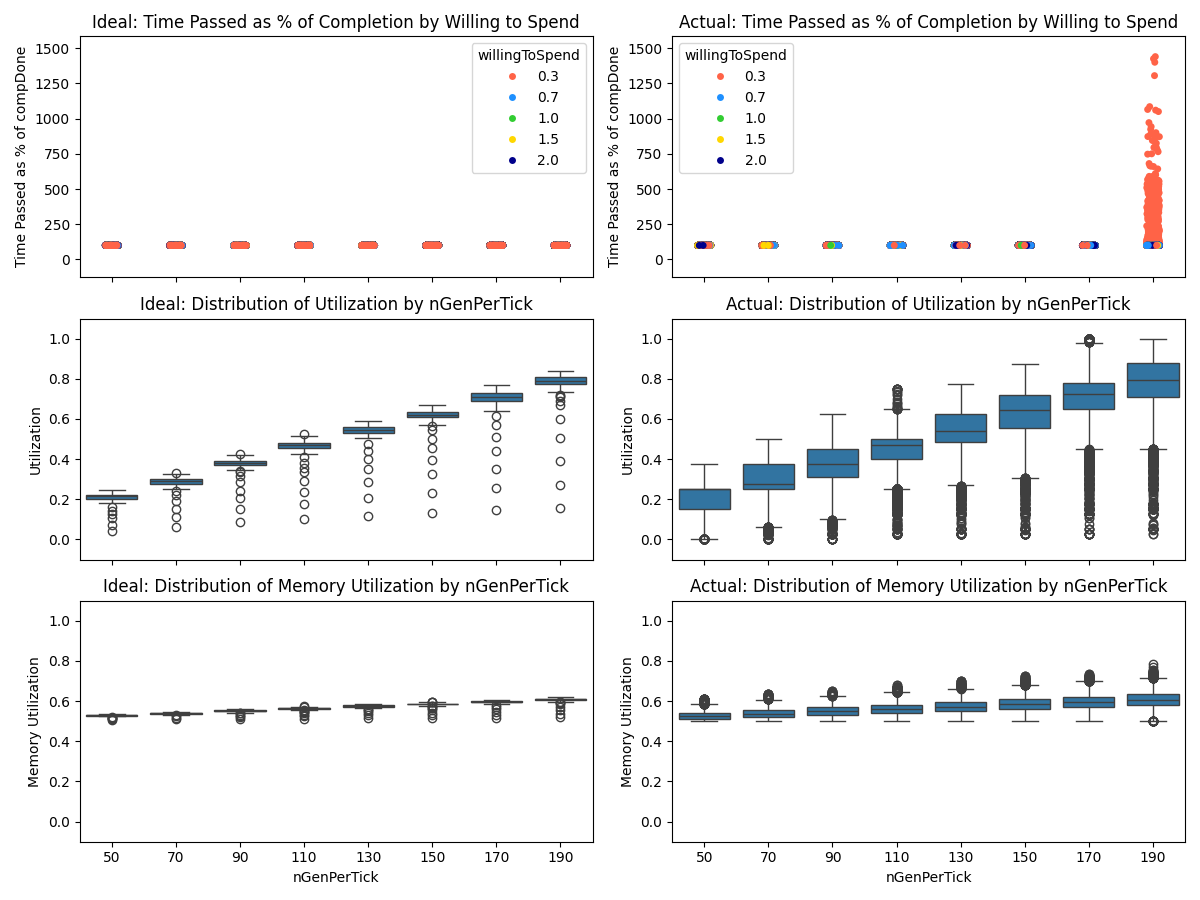
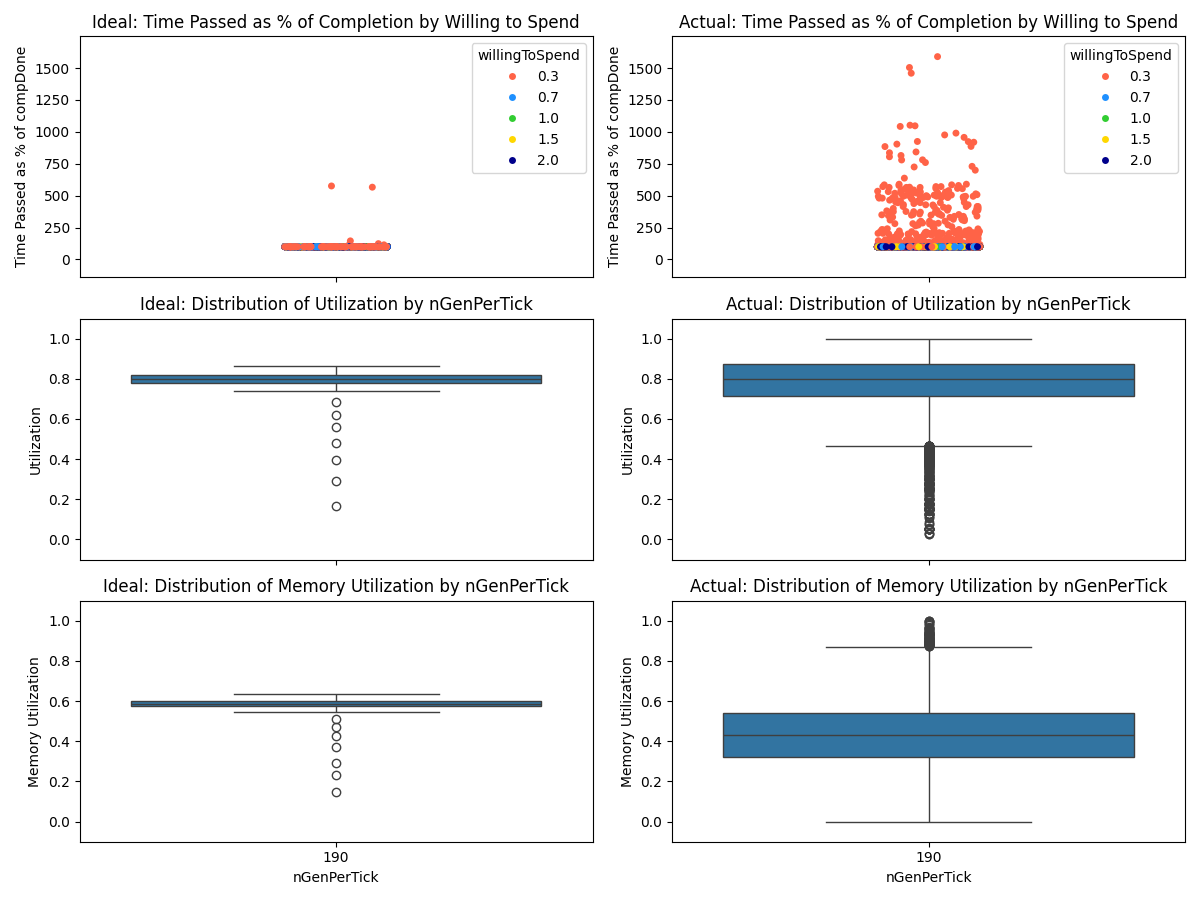
some bug fixes: mem free accounting at beginning not at end, update free list when other gs places using k choices, have ideal and actual run exactly the same procs

diff --git a/idealized.go b/idealized.go
@@ -50,8 +50,6 @@ func (idc *IdealDC) potPlaceProc(newProc *Proc) bool {
 
 	// if it doesn't fit, look if there a good proc to kill? (/a combination of procs? can add that later)
 	procToKill, minMoneyWaste := idc.procQ.checkKill(newProc)
-	toWrite := fmt.Sprintf("  min money waste: %v \n", minMoneyWaste)
-	logWrite(IDEAL_SCHED, toWrite)
 	if minMoneyWaste < MONEY_WASTE_THRESHOLD {
 
 		newProc.timePlaced = *idc.currTickPtr
@@ -67,8 +65,8 @@ func (idc *IdealDC) potPlaceProc(newProc *Proc) bool {
 // ok so I have a bunch of procs that all fit memory wise, so really what I'm doing
 func (idc *IdealDC) tick() {
 
-	// toWrite := fmt.Sprintf("%v @ %v: WHOLE QUEUE %v\n", idc.worldNumProcsGenPerTick, idc.currTickPtr, idc.procQ.String())
-	// logWrite(IDEAL_SCHED, toWrite)
+	toWrite := fmt.Sprintf("%v @ %v; mem free: %v: WHOLE QUEUE %v\n", idc.worldNumProcsGenPerTick, idc.currTickPtr, idc.memFree(), idc.procQ.String())
+	logWrite(IDEAL_SCHED, toWrite)
 
 	totalTicksLeftToGive := Tftick(idc.amtWorkPerTick)
 	ticksLeftPerCore := make(map[int]Tftick, 0)
@@ -80,7 +78,8 @@ func (idc *IdealDC) tick() {
 		coresWithTicksLeft[i] = true
 	}
 
-	toWrite := fmt.Sprintf("%v, %v", idc.worldNumProcsGenPerTick, int(*idc.currTickPtr))
+	ogMemFree := idc.memFree()
+	toWrite = fmt.Sprintf("%v, %v", idc.worldNumProcsGenPerTick, int(*idc.currTickPtr))
 	logWrite(IDEAL_USAGE, toWrite)
 
 	// TODO: what if it doesn't fit?
@@ -134,8 +133,8 @@ func (idc *IdealDC) tick() {
 				continue
 			}
 
-			// toWrite := fmt.Sprintf("   core %v giving %v to proc %v \n", currCore, ticksLeftPerCore[currCore], procToRun.String())
-			// logWrite(IDEAL_SCHED, toWrite)
+			toWrite := fmt.Sprintf("   core %v giving %v to proc %v \n", currCore, ticksLeftPerCore[currCore], procToRun.String())
+			logWrite(IDEAL_SCHED, toWrite)
 
 			ticksUsed, done := procToRun.runTillOutOrDone(ticksLeftPerCore[currCore])
 
@@ -152,8 +151,13 @@ func (idc *IdealDC) tick() {
 				// if the proc is done, update the ticksPassed to be exact for metrics etc
 				procToRun.timeDone = *idc.currTickPtr + (1 - ticksLeftPerCore[currCore])
 
-				// toWrite := fmt.Sprintf("   -> done: %v\n", procToRun.String())
-				// logWrite(IDEAL_SCHED, toWrite)
+				toWrite := fmt.Sprintf("   -> done: %v\n", procToRun.String())
+				logWrite(IDEAL_SCHED, toWrite)
+
+				if (procToRun.timeDone - procToRun.timeStarted) > procToRun.compDone {
+					toWrite := fmt.Sprintf("   ---> OVER %v \n", procToRun.String())
+					logWrite(IDEAL_SCHED, toWrite)
+				}
 
 				toWrite = fmt.Sprintf("%v, %v, %v, %v \n", idc.worldNumProcsGenPerTick, procToRun.willingToSpend(), (procToRun.timeDone - procToRun.timeStarted).String(), procToRun.compDone.String())
 				logWrite(IDEAL_PROCS_DONE, toWrite)
@@ -170,6 +174,6 @@ func (idc *IdealDC) tick() {
 	if totalTicksLeftToGive < 0.00002 {
 		totalTicksLeftToGive = 0
 	}
-	toWrite = fmt.Sprintf(", %v, %v\n", float64(math.Copysign(float64(totalTicksLeftToGive), 1)), idc.memFree())
+	toWrite = fmt.Sprintf(", %v, %v\n", float64(math.Copysign(float64(totalTicksLeftToGive), 1)), ogMemFree)
 	logWrite(IDEAL_USAGE, toWrite)
 }

diff --git a/world.go b/world.go
@@ -6,7 +6,7 @@ import (
 )
 
 const (
-	MEM_PER_MACHINE = 128000
+	MEM_PER_MACHINE = 64000
 
 	IDLE_HEAP_MEM_THRESHOLD  = 1
 	IDLE_HEAP_QLEN_THRESHOLD = 2
@@ -28,6 +28,8 @@ type World struct {
 	numProcsToGen int
 	currProcNum   int
 	machines      map[Tid]*Machine
+	idealDC       *IdealDC
+	idealMultiQ   MultiQueue
 	GSSs          []*GlobalSched
 	roundRobinInd int
 	loadGen       LoadGen
@@ -39,10 +41,13 @@ func newWorld(numMachines int, numCores int, nGenPerTick int, nGSSs int) *World 
 		currTick:      Tftick(0),
 		machines:      map[Tid]*Machine{},
 		numProcsToGen: nGenPerTick,
+		idealMultiQ:   NewMultiQ(),
 		roundRobinInd: 0,
 	}
 
 	w.loadGen = newLoadGen()
+
+	w.idealDC = newIdealDC(numMachines*numCores, Tmem(numMachines*MEM_PER_MACHINE), &w.currTick, nGenPerTick)
 
 	w.GSSs = make([]*GlobalSched, nGSSs)
 	idleHeaps := make(map[Tid]*IdleHeap, nGSSs)
@@ -83,13 +88,39 @@ func (w *World) genLoad(nProcs int) int {
 			w.roundRobinInd = 0
 		}
 
+		copyForIdeal := newProvProc(Tid(w.currProcNum), w.currTick, up)
+		w.idealMultiQ.enq(copyForIdeal)
 		w.currProcNum += 1
 	}
 	return len(userProcs)
 }
 
+// this needs to model placement ordering like GS does...
+func (w *World) placeProcsIdeal() {
+
+	toReq := make([]*Proc, 0)
+
+	p := w.idealMultiQ.deq(w.currTick)
+
+	for p != nil {
+		placed := w.idealDC.potPlaceProc(p)
+
+		if !placed {
+			toReq = append(toReq, p)
+		}
+		p = w.idealMultiQ.deq(w.currTick)
+	}
+
+	for _, p := range toReq {
+		w.idealMultiQ.enq(p)
+	}
+
+}
+
 func (w *World) Tick(numProcs int) {
 	w.genLoad(numProcs)
+
+	w.placeProcsIdeal()
 
 	for _, gs := range w.GSSs {
 		gs.placeProcs()
@@ -100,6 +131,7 @@ func (w *World) Tick(numProcs int) {
 	for _, m := range w.machines {
 		m.sched.tick()
 	}
+	w.idealDC.tick()
 
 	w.currTick += 1
 }

diff --git a/machine_sched.go b/machine_sched.go
@@ -95,6 +95,8 @@ func (sd *Sched) placeProc(newProc *Proc, fromGs Tid) (bool, TIdleMachine) {
 
 	newProc.timePlaced = *sd.currTickPtr
 
+	ogMemFree := sd.memFree()
+
 	if newProc.maxMem() < sd.memFree() {
 		sd.activeQ.enq(newProc)
 
@@ -111,6 +113,24 @@ func (sd *Sched) placeProc(newProc *Proc, fromGs Tid) (bool, TIdleMachine) {
 		if p.willingToSpend() > maxCostRunning {
 			maxCostRunning = p.willingToSpend()
 		}
+	}
+
+	// if not from GS whose list we're in and change in mem is large, update the list
+	if (float32(sd.memFree()) < 0.9*float32(ogMemFree)) && (sd.currHeapGSS >= 0) && (sd.currHeapGSS != fromGs) {
+		heapToUse := sd.idleHeaps[sd.currHeapGSS]
+		heapToUse.lock.Lock()
+		// also if it is already in the heap, then replace it with the new value
+		if contains(heapToUse.heap, sd.machineId) {
+			remove(heapToUse.heap, sd.machineId)
+		}
+		toPush := TIdleMachine{
+			machine:            sd.machineId,
+			highestCostRunning: maxCostRunning,
+			qlen:               sd.activeQ.qlen(),
+			memAvail:           sd.memFree(),
+		}
+		heapToUse.heap.Push(toPush)
+		heapToUse.lock.Unlock()
 	}
 
 	// don't want the GSS to take out idleness into account if we are already somewhere else

diff --git a/run_test.go b/run_test.go
@@ -2,7 +2,6 @@ package slasched
 
 import (
 	"fmt"
-	"sync"
 	"testing"
 )
 
@@ -14,8 +13,8 @@ const (
 	N_CORES_PER_MACHINE = 8
 
 	// this is overall
-	N_PROCS_GEN_PER_TICK_START = 50
-	N_PROCS_GEN_PER_TICK_END   = 200
+	N_PROCS_GEN_PER_TICK_START = 190
+	N_PROCS_GEN_PER_TICK_END   = 190
 )
 
 func TestRunWorld(t *testing.T) {
@@ -25,20 +24,7 @@ func TestRunWorld(t *testing.T) {
 		fmt.Printf("---- Running with %v procs per ticks ----\n", nProcsToGen)
 
 		w := newWorld(N_MACHINES, N_CORES_PER_MACHINE, nProcsToGen, N_GSSs)
-		iw := newIdealWorld(N_MACHINES, N_CORES_PER_MACHINE, nProcsToGen)
-
-		var wg sync.WaitGroup
-		wg.Add(1)
-		go func() {
-			defer wg.Done()
-			w.Run(N_TICK)
-		}()
-		wg.Add(1)
-		go func() {
-			defer wg.Done()
-			iw.Run(N_TICK)
-		}()
-		wg.Wait()
+		w.Run(N_TICK)
 	}
 
 }

diff --git a/proc.go b/proc.go
@@ -22,9 +22,11 @@ func (p *Proc) String() string {
 	return strconv.Itoa(int(p.procId)) + ": " +
 		", time started: " + p.timeStarted.String() +
 		", time placed: " + p.timePlaced.String() +
+		", time done: " + p.timeDone.String() +
 		", actual comp " + p.procInternals.actualComp.String() +
 		", comp done " + p.compDone.String() +
-		", willing to spend: " + strconv.FormatFloat(float64(p.willingToSpend()), 'f', 3, 32)
+		", willing to spend: " + strconv.FormatFloat(float64(p.willingToSpend()), 'f', 3, 32) +
+		", max mem: " + strconv.Itoa(int(p.maxMem()))
 }
 
 func newProvProc(procId Tid, currTick Tftick, privProc *ProcInternals) *Proc {

diff --git a/gs.go b/gs.go
@@ -195,8 +195,6 @@ func (gs *GlobalSched) pickMachine(procToPlace *Proc) *Machine {
 
 	for _, m := range machineToTry {
 		moneyWaste := m.sched.okToPlace(procToPlace)
-		toWrite := fmt.Sprintf("  min money waste: %v \n", moneyWaste)
-		logWrite(SCHED, toWrite)
 		if moneyWaste < minMoneyWaste {
 			minMoneyWaste = moneyWaste
 			machineToUse = m

diff --git a/results/usage_plots.py b/results/usage_plots.py
@@ -4,7 +4,7 @@ import seaborn as sns  # Seaborn is a great library for creating scatter plots
 
 numMachines = 100
 coresPerMachine = 8
-totalMemoryPerMachine = 256000
+totalMemoryPerMachine = 64000
 
 # Load the data
 ideal_usage_metrics = pd.read_csv("ideal_usage.txt", index_col=None, names=["nGenPerTick", "tick", "ticksLeftOver", "memFree"])
